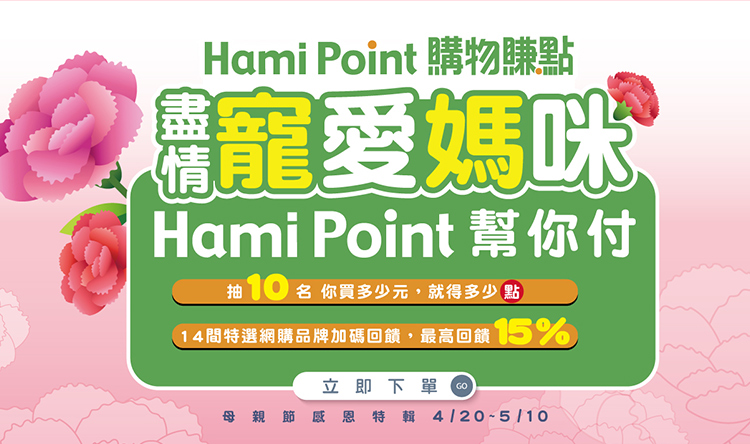
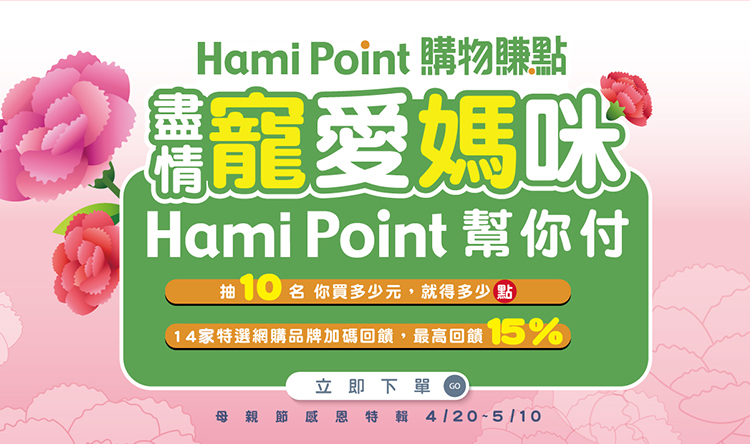
母親節
改主視覺文字
新增連結
新增網頁標題
改圖片文字

diff --git a/demo/mothers_day/index.html b/demo/mothers_day/index.html
@@ -18,11 +18,11 @@ j=d.createElement(s),dl=l!='dataLayer'?'&l='+l:'';j.async=true;j.src=
  <!-- og example tag-->
     <meta property="og:url" content="">
     <meta property="og:type" content="article">
-    <meta property="og:title" content="| 中華電信官網 CHT.com.tw">
+    <meta property="og:title" content="Hami Point購物賺點｜盡情寵愛媽咪| 中華電信官網 CHT.com.tw">
     <meta property="og:description" content="">
     <meta property="og:image" content="/">
     <meta property="og:site_name" content="中華電信官網 CHT.com.tw"/>
-	<title>| 中華電信官網 CHT.com.tw</title>
+	<title>Hami Point購物賺點｜盡情寵愛媽咪| 中華電信官網 CHT.com.tw</title>
     <!-- library-->
     <link href="https://cdn.jsdelivr.net/jquery.tooltipster/4.2.5/css/tooltipster.bundle.min.css" rel="stylesheet">
     <link href="https://cdnjs.cloudflare.com/ajax/libs/OwlCarousel2/2.2.1/assets/owl.carousel.min.css" rel="stylesheet">
@@ -148,7 +148,7 @@ j=d.createElement(s),dl=l!='dataLayer'?'&l='+l:'';j.async=true;j.src=
             <div class="d">
                 <img src="assets/images/section_01.jpg"  usemap="#image-a">
                 <map name="image-a">
-                    <area target="_blank" href="https://hamipoint.cht.com.tw/promotion/72/view" coords="792,395,1048,442" shape="rect">
+                    <area target="_blank" href="https://hamipoint.cht.com.tw/promotion/65/view" coords="792,395,1048,442" shape="rect">
                 </map>
                 <img src="assets/images/section_02.jpg" usemap="#image-b">
                 <map name="image-b">
@@ -160,12 +160,12 @@ j=d.createElement(s),dl=l!='dataLayer'?'&l='+l:'';j.async=true;j.src=
         			    <area target="_blank" alt="" title="" href="https://hamipoint.cht.com.tw/buy/list/14/view" coords="377,815,576,1089" shape="rect">
         			    <area target="_blank" alt="" title="" href="https://hamipoint.cht.com.tw/buy/list/56/view" coords="619,817,822,1086" shape="rect">
         			    <area target="_blank" alt="" title="" href="https://hamipoint.cht.com.tw/buy/list/25/view" coords="867,818,1065,1085" shape="rect">
-        			    <area target="_blank" alt="" title="" href="#1" coords="1110,815,1310,1089" shape="rect">
+        			    <area target="_blank" alt="" title="" href="https://hamipoint.cht.com.tw/buy/list/126/view" coords="1110,815,1310,1089" shape="rect">
         			    <area target="_blank" alt="" title="" href="https://hamipoint.cht.com.tw/buy/list/17/view" coords="134,1119,329,1388" shape="rect">
-        			    <area target="_blank" alt="" title="" href="#2" coords="376,1118,577,1386" shape="rect">
-        			    <area target="_blank" alt="" title="" href="#3" coords="620,1117,822,1386" shape="rect">
+        			    <area target="_blank" alt="" title="" href="https://hamipoint.cht.com.tw/buy/list/125/view" coords="376,1118,577,1386" shape="rect">
+        			    <area target="_blank" alt="" title="" href="https://hamipoint.cht.com.tw/buy/list/123/view" coords="620,1117,822,1386" shape="rect">
         			    <area target="_blank" alt="" title="" href="https://hamipoint.cht.com.tw/buy/list/96/view" coords="863,1119,1067,1389" shape="rect">
-        			    <area target="_blank" alt="" title="" href="#4" coords="1112,1115,1310,1386" shape="rect">
+        			    <area target="_blank" alt="" title="" href="https://hamipoint.cht.com.tw/buy/list/124/view" coords="1112,1115,1310,1386" shape="rect">
                 </map>
                 <img src="assets/images/section_03.jpg" usemap="#image-c">
                 <map name="image-c">
@@ -175,7 +175,7 @@ j=d.createElement(s),dl=l!='dataLayer'?'&l='+l:'';j.async=true;j.src=
             <div class="m">
                 <img src="assets/images/section_01_m.jpg" usemap="#image-map-a_m">
                 <map name="image-map-a_m">
-                    <area target="_blank" href="https://hamipoint.cht.com.tw/promotion/72/view"  coords="248,550,501,599" shape="rect">
+                    <area target="_blank" href="https://hamipoint.cht.com.tw/promotion/65/view"  coords="248,550,501,599" shape="rect">
                 </map>
                 <img src="assets/images/section_02_m.jpg" usemap="#image-map-b_m">
                 <map name="image-map-b_m">
@@ -187,12 +187,12 @@ j=d.createElement(s),dl=l!='dataLayer'?'&l='+l:'';j.async=true;j.src=
                         <area target="_blank" alt="" title="" href="https://hamipoint.cht.com.tw/buy/list/14/view" coords="403,1230,665,1582" shape="rect">
                         <area target="_blank" alt="" title="" href="https://hamipoint.cht.com.tw/buy/list/56/view" coords="90,1622,350,1967" shape="rect">
                         <area target="_blank" alt="" title="" href="https://hamipoint.cht.com.tw/buy/list/25/view" coords="405,1621,661,1969" shape="rect">
-                        <area target="_blank" alt="" title="" href="#1" coords="90,2009,348,2356" shape="rect">
+                        <area target="_blank" alt="" title="" href="https://hamipoint.cht.com.tw/buy/list/126/view" coords="90,2009,348,2356" shape="rect">
                         <area target="_blank" alt="" title="" href="https://hamipoint.cht.com.tw/buy/list/17/view" coords="406,2009,660,2357" shape="rect">
-                        <area target="_blank" alt="" title="" href="#2" coords="92,2399,350,2749" shape="rect">
-                        <area target="_blank" alt="" title="" href="#3" coords="405,2398,663,2747" shape="rect">
+                        <area target="_blank" alt="" title="" href="https://hamipoint.cht.com.tw/buy/list/125/view" coords="92,2399,350,2749" shape="rect">
+                        <area target="_blank" alt="" title="" href="https://hamipoint.cht.com.tw/buy/list/123/view" coords="405,2398,663,2747" shape="rect">
                         <area target="_blank" alt="" title="" href="https://hamipoint.cht.com.tw/buy/list/96/view" coords="90,2788,351,3137" shape="rect">
-                        <area target="_blank" alt="" title="" href="#4" coords="408,2786,664,3137" shape="rect">
+                        <area target="_blank" alt="" title="" href="https://hamipoint.cht.com.tw/buy/list/124/view" coords="408,2786,664,3137" shape="rect">
                         <area target="" alt="" title="" href="" coords="91,172,664,227" shape="rect">
                 </map>
                 <img src="assets/images/section_03_m.jpg" usemap="#image-map-c_m">

diff --git a/demo/mothers_day/assets/css/style.css b/demo/mothers_day/assets/css/style.css
@@ -106,9 +106,11 @@ div#social-float img{width:25%;margin:0 auto;display: block;}
   list-style-type: cjk-ideographic;
   width:80%;
   margin:0 auto;
+  padding:0 0 0 1.2rem;
 }
 #wrap .container_page ol li{
   padding:0.2rem 0;
+  font-size: 85%;
 }
 div.social-float-parent { width: 100%; height:100px; position: relative; }
 div#social-float { width: 100%; padding:1em;display:block;margin:0 auto;position: fixed; left: 0%; bottom: 0px; background: rgba(255,255,255,0.75); }
